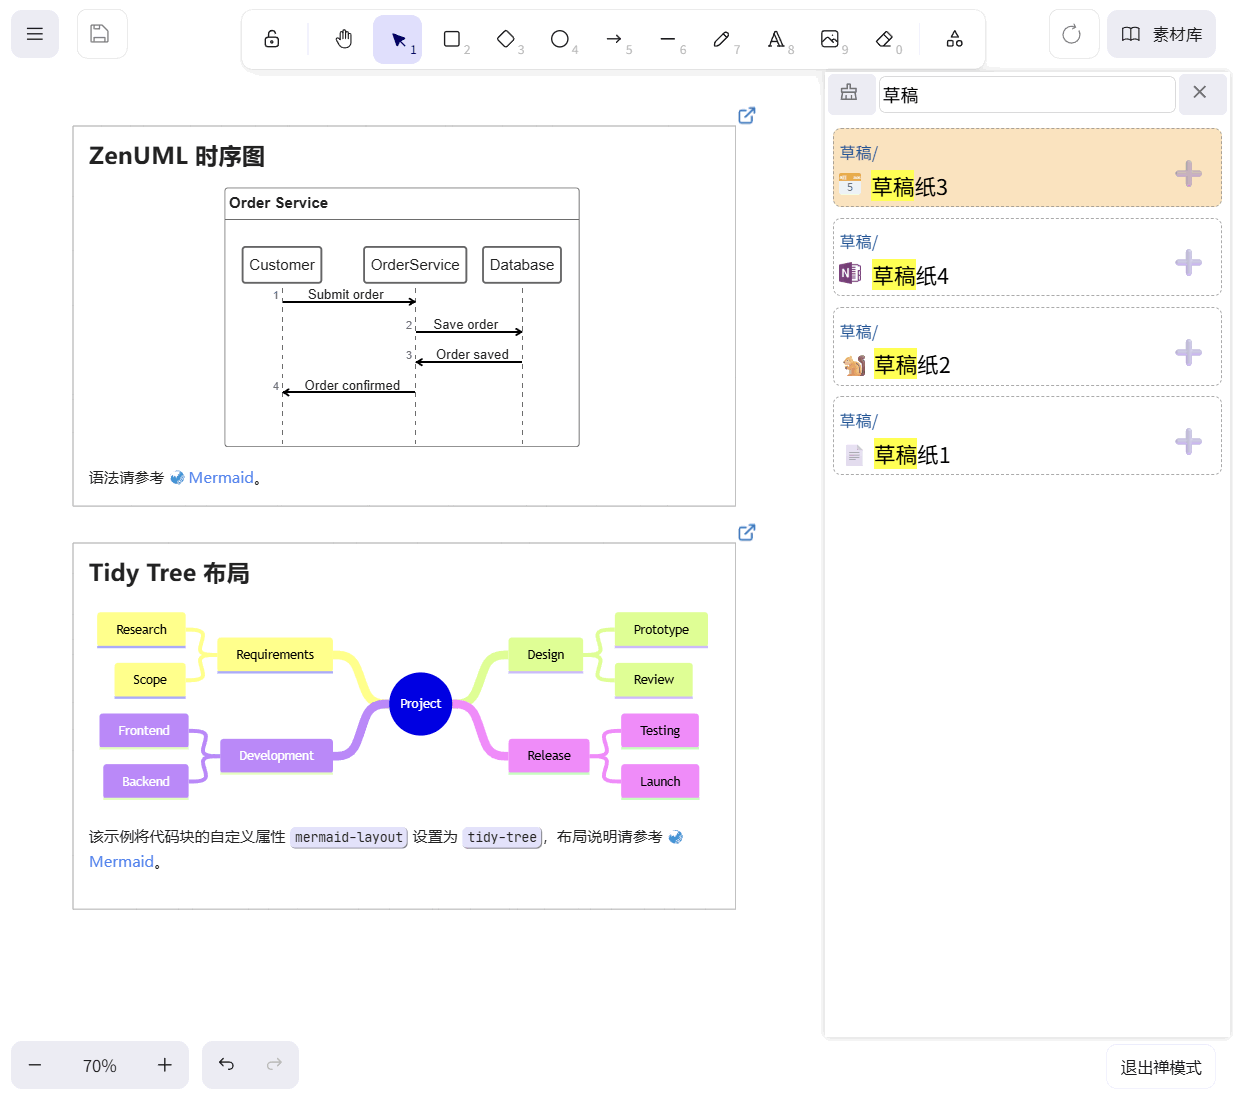
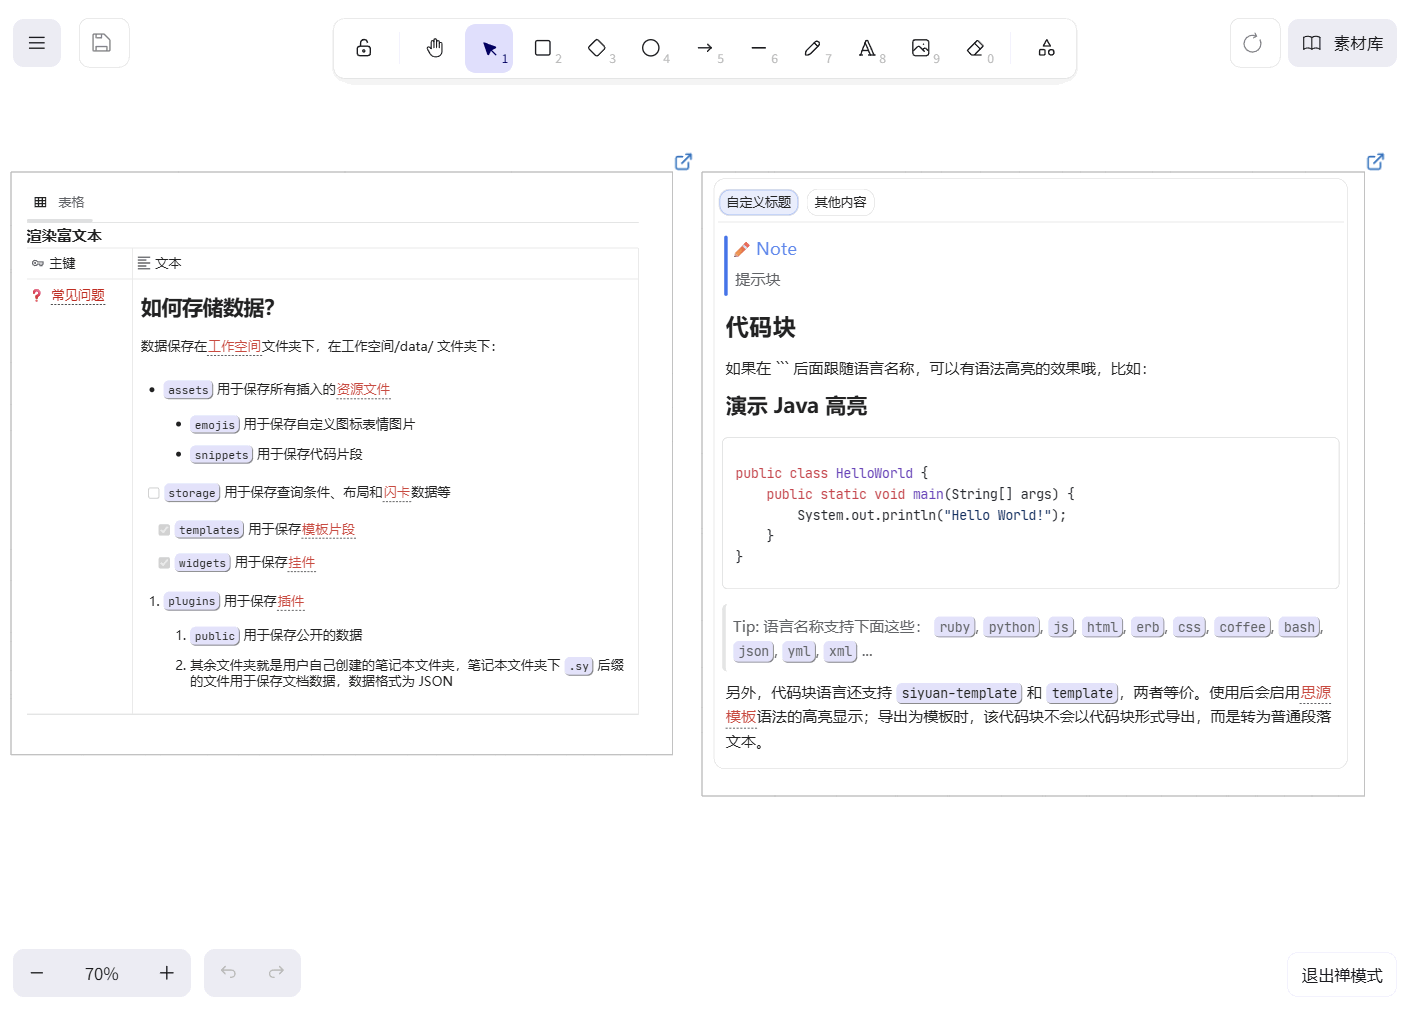
V2.1.9

diff --git a/theme/config.js b/theme/config.js
@@ -488,13 +488,38 @@ function escapeHtml(html) {
   return html.replace(/&/g, "&amp;").replace(/</g, "&lt;");
 }
 
+function getAVTextSource(value) {
+  const rich = value?.type === "text" ? value.text?.rich : undefined;
+  if (rich && rich.spec === 1 && rich.format === "kramdown" &&
+    typeof rich.content === "string") {
+    return { kind: "rich", content: rich.content };
+  }
+  return {
+    kind: "plain", content: value?.type === "text" && typeof value.text?.content === "string" ?
+      value.text.content : ""
+  };
+}
+
 
 function renderCell(cellValue, rowIndex = 0, showIcon = true, type = "table") {
   let text = "";
   if ("template" === cellValue.type) {
     text = `<span class="av__celltext">${cellValue ? (cellValue.template.content || "") : ""}</span>`;
   } else if ("text" === cellValue.type) {
-    text = `<span class="av__celltext">${cellValue ? window.top.Lute.EscapeHTMLStr(cellValue.text.content || "") : ""}</span>`;
+    // 数据库——文本字段——富文本
+    const source = getAVTextSource(cellValue);
+    if (source.kind === "rich") {
+      if (!window.top.lute) {
+        window.top.lute = window.top.Lute.New();
+        window.top.lute.SetHTMLTag2TextMark(true);
+      }
+      // 需要去除空行，否者渲染效果异常
+      let str = source.content.replace(/^\s*[\r\n]/gm, '');
+      const htmlResult = window.top.lute.Md2HTML(str);
+      text = `<div class="av__celltext av__celltext--rich b3-typography" data-protyle-lite-render="safe">${htmlResult}</div>`;
+    } else {
+      text = `<span class="av__celltext">${cellValue ? window.top.Lute.EscapeHTMLStr(cellValue.text.content || "") : ""}</span>`;
+    }    
   } else if (["email", "phone"].includes(cellValue.type)) {
     text = `<span class="av__celltext av__celltext--url" data-type="${cellValue.type}">${cellValue ? window.top.Lute.EscapeHTMLStr(cellValue[cellValue.type].content || "") : ""}</span>`;
   } else if ("url" === cellValue.type) {

diff --git a/theme/config.css b/theme/config.css
@@ -290,3 +290,40 @@ h1:has(+ .iframe[custom-data-assets*="/assets/ExcalidrawFiles/"]) {
 .tabs .tabs-header {
     border-bottom: 1px solid var(--b3-theme-background-light);
 }
+
+/* 数据库——文本字段——富文本 */
+.av__celltext.av__celltext--rich {
+    font-size: 1em;
+    line-height: 1em;
+    cursor: auto;
+    user-select: text;
+}
+
+li:has(>input[type="checkbox"]) {
+    list-style: none;
+}
+
+ul:has(>li.vditor-task) {
+    padding-left: 0.8em;
+}
+
+.av__celltext.av__celltext--rich ol,
+.av__celltext.av__celltext--rich ul {
+    margin-bottom: -20px;
+    padding-bottom: 0px;
+}
+
+.av__celltext.av__celltext--rich> :last-child {
+    margin-bottom: 0px !important;
+}
+
+.av__celltext.av__celltext--rich span {
+    line-height: 1.5em;
+}
+
+.av__celltext.av__celltext--rich pre>code {
+    display: block;
+    box-shadow: none;
+    padding: 10px;
+    line-height: 2em;
+}

diff --git a/README_en_US.md b/README_en_US.md
@@ -7,6 +7,21 @@
 
 
 ## 1. Current Version
+### V2.1.9
+
+Test Environment: `SiYuan V3.8.4-alpha.1`, `SiYuan V3.8.3`, `Windows 11`
+
+See the preview image at the top:
+
+- Compatibility handling: When the note-taking software version is `V3.8.3` or higher, the whiteboard feature **Embed Documents and Content Blocks via Drag and Drop** is restored.
+- The whiteboard supports rendering `Tab blocks`, a new type of content block introduced in `SiYuan V3.8.3`.
+- The whiteboard supports rendering rich text for database text fields added in `SiYuan V3.8.3`.
+
+Regarding the whiteboard feature **Embed Documents and Content Blocks via Drag and Drop**: after updating the widget, it is recommended to first create a blank whiteboard for testing. Do not test on whiteboards with existing content to avoid disrupting previously created whiteboards.
+
+If the feature does not take effect, it is likely caused by caching — the whiteboard may still be loading old files. Open a whiteboard document and follow the guide at **[Refresh after disabling cache](https://github.com/BryceAndJuly/Whiteboard/issues/100)** to perform a refresh.
+
+---
 
 ### V2.1.8
 

diff --git a/README.md b/README.md
@@ -8,6 +8,21 @@
 
 
 ## 一、当前版本
+### V2.1.9
+
+测试环境：`SiYuan V3.8.4-alpha.1  `、`SiYuan V3.8.3`、`Windows 11`
+
+见顶部预览图：
+
+- 处理兼容性：当笔记软件版本大于或等于`V3.8.3`时，白板的【通过拖拽方式嵌入文档和内容块】功能恢复可用。
+- 白板支持渲染在`SiYuan V3.8.3`中新增的内容块：页签块。
+- 白板支持渲染在`SiYuan V3.8.3`中新增的数据库文本字段富文本。
+
+关于白板的【通过拖拽方式嵌入文档和内容块】功能，更新挂件后建议先新建一个空白白板测试一下，不要在已有内容的白板上测试，以免干扰到之前创建的白板。
+
+如果发现没生效，大概是因为受到缓存的影响，白板加载的还是旧的文件，可打开一个白板文档后参考【[禁用缓存后刷新](https://github.com/BryceAndJuly/Whiteboard/issues/100)】进行刷新。
+
+---
 
 ### V2.1.8
 
